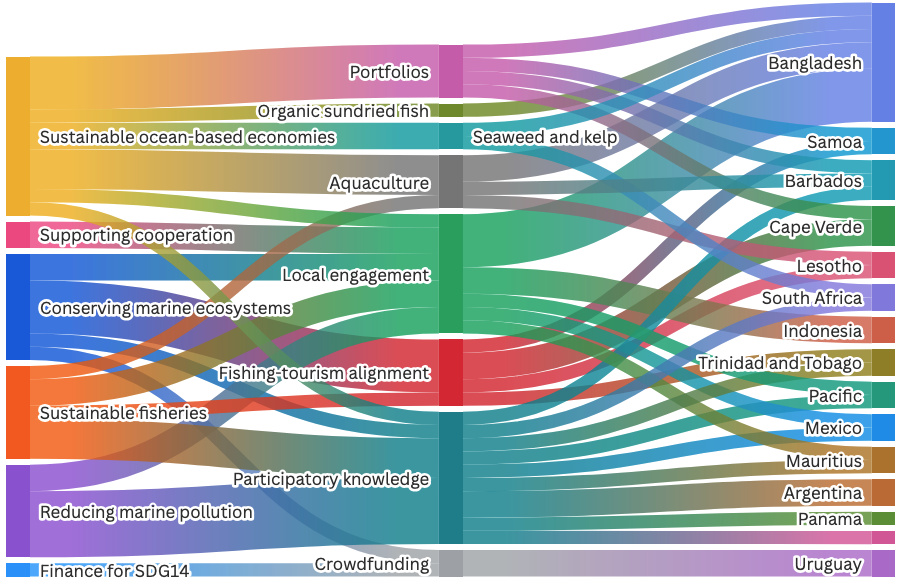
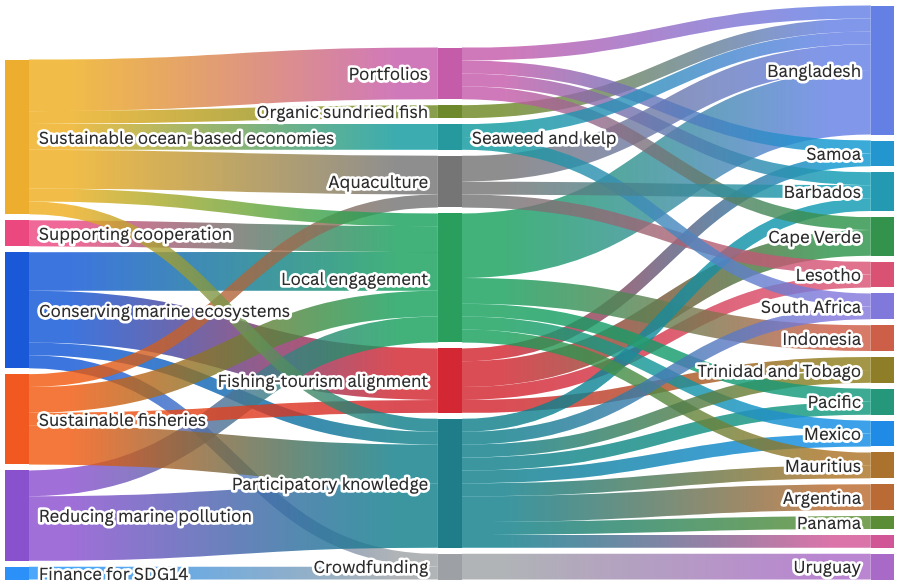
Replaced image, some edits

diff --git a/app/lib/data/collection/tempData/oceans.ts b/app/lib/data/collection/tempData/oceans.ts
@@ -20,10 +20,10 @@ export const collection = {
 					items: [
 					'<b>Aquaculture and fish farming</b>. Many coastal communities depend on catching and selling fish for their livelihood, but modern fishing can severely damage marine environments, leading to pollution, biodiversity reduction and ultimately environmental collapse. UNDP is experimenting with aquaculture and fish farming as a way to supply seafood while maintaining a much tighter control on the environmental consequences of doing so. Aquaculture can also be complementary to other economic activities, such as farming, and in this sense increase the diversity and resilience of coastal economies (Bangladesh, Lesotho – the latter for freshwater aquaculture). In freshwater-scarce environments, aquaculture can coexist with agriculture on the same land through polyculture (Barbados). Freshwater aquaculture can also lead to dilemmas about how to allocate water: UNDP is looking into methods to overcome them by using generative AI to simulate the impact of different solutions (Mexico).',
 					'<b>Seaweed and kelp</b> Seaweed and kelp are abundant in nature and rich in nutrients. They have the potential to produce human food, animal fodder or agricultural inputs such as fertilizers with much reduced environmental footprint than land agriculture, animal husbandry and fishing. UNDP teams are working across many countries (Bangladesh, Barbados, Mauritius, Namibia, Samoa, South Africa) to experiment with various species of seaweed, seagrass, kelp, seagrapes and so on. ',
-					'<b>Integration between fishing and tourism</b>. The rapid growth of tourism as a global industry is a mixed blessing for coastal communities. It benefits fisherfolk by creating additional, local demand for catch; on the down side, it puts additional pressure on marine environments and often leads to local frictions witin communities. For example, fisherfolk tend to view beaches (and the sea itself) as bases for their operations, where they leave their equipment and even abandon waste. Tourists, instead, see beaches as a tourist attraction, which should be well groomed. UNDP teams in several countries are working on reconciling the two. For example, Barbados connects fisherfolk with hotels, trying for shorter supply chains and a better livelihood for the fishing communities. Mauritius is experimenting on ways that artisanal fisherfolk, with their rich local knowledge can provide services to senior tourists. Cape Verde, Lesotho and Samoa pilot programmes where catch-and-release or otherwise highly sustainable fishing are offered to tourists as experiences.',
+					'<b>Integration between fishing and tourism</b>. The rapid growth of tourism as a global industry is a mixed blessing for coastal communities. It benefits fisherfolk by creating additional, local demand for catch; on the down side, it puts additional pressure on marine environments and often leads to local frictions witin communities. For example, fisherfolk tend to view beaches (and the sea itself) as bases for their operations, where they leave their equipment and even abandon waste. Tourists, instead, see beaches as a tourist attraction, which should be well groomed. UNDP teams in several countries are working on reconciling the two. For example, Barbados connects fisherfolk with hotels, trying for shorter supply chains and a better livelihood for the fishing communities. Mauritius is experimenting on ways that artisanal fisherfolk, with their rich local knowledge can provide services to senior tourists. Cape Verde, Lesotho and Samoa pilot programmes where catch-and-release or otherwise highly sustainable fishing are offered to tourists as experiences. Trinidad and Tobago is experimenting with "artificial reefs" created by ',
 					'<b>Citizen science and participatory knowledge</b>. Effective action to conserve and regenerate marine environments needs up-to-date data and knowledge on their condition. Many local contexts suffer from data gaps. Additionally, that knowledge needs to be shared for communities to support restorative actions and participate in them. UNDP\'s response to this state of affairs is to engage citizens and communities in the production and socialization of the relevant data and knowledge. UNDP deployed citizen science initiatives to monitor marine ecosystems (Argentina) and marine litter (Panama); studied the seasonal cycles of activities alternative to fishing – and often performed by women – to better understand the implications of temporary fishing bans on coastal livelihoods (Bangladesh); equipped fishing vessels with networked sensors to study water quality (Cape Verde); ran ethnographies on waste and the circular economy to better understand the phenomenon of marine littering (Pacific, Pakistan, Philippines); designed and facilitated participatory dialogues to inform the government\'s position in negotiating a global agreement on plastic pollution (Mexico); organized solutions mapping campaigns (South Africa), innovation challenges (Pacific, Trinidad and Tobago) and "blue" hackathons (Cape Verde again) to benefit from the ingenuity of local innovators.',
 					'<b>Local engagement of coastal communities</b>. Development interventions can have no lasting impact without the informed consent, and ideally the active involvement, of the communities where those interventions take place. Yet, oftentimes actions to conserve marine environments (for example a seasonal fishing ban) or adopt more sustainable business models (For example, crafting tourism experiences from fishing expeditions) can feel abstract and distant. They tend to have long-term benefits far into the future, but demand investments of time and resources right here and now. UNDP teams across the planet deploy methods from collective intelligence and participatory design to build interventions that reconcile environmental protection with community prosperity. Powered by collective intelligence, these interventions tend to be highly creative. For example, UNDP Bangladesh has prototyped, and is now scaling, an initiative for island communities to become stewards of the sea turtles laying eggs on their beaches, and of their hatchlings. UNDP Indonesia worked with an interfaith alliance of religious-based charities to collect plastic waste, thereby preventing it from ending up in the water. UNDP Pacific deployed collective intelligence methods to co-design the services auxiliary to a project of solar electrification of some smaller islands (solar energy production fluctuates with sunlight, so such projects have the problem of what to do with the extra power generated on sunny days). UNDP Mauritius insisted on including fishing communities in the revamping of the islands\' tourist offer.',
-					'<b>Portfolios</b>. Marine and coastal ecosystems are inherently complex, and resist single-point linear interventions. UNDP acknowledges that holistic portfolios of interventions are almost always necessary. Teams in Bangladesh, Barbados, Cape Verde and Guinea-Bissau are implementing Blue Economy portfolios, seeking to address marine conservation, biodiversity, and human prosperity goal with a mutually consistent set of interventions.',
+					'<b>Portfolios</b>. Marine and coastal ecosystems are inherently complex and resist single-point linear interventions. UNDP acknowledges that holistic portfolios of interventions are almost always necessary. Teams in Bangladesh, Barbados, Cape Verde and Guinea-Bissau are implementing Blue Economy portfolios, seeking to address marine conservation, biodiversity, and human prosperity goals through a coherent set of interventions.',
 					'<b>Crowdfunding</b>. UNDP Uruguay has experimented with crowdfunding as an innovative approach to financing marine ecosystems restoration.',
 					]
 				},
@@ -49,5 +49,6 @@ export const collection = {
 		605,
 		606,
 		607,
+		608,
 	],
 }
